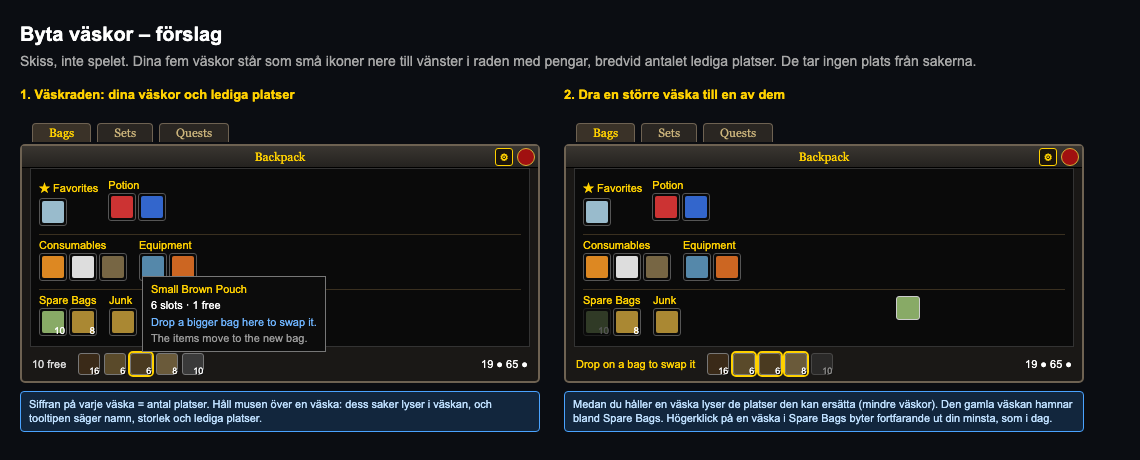
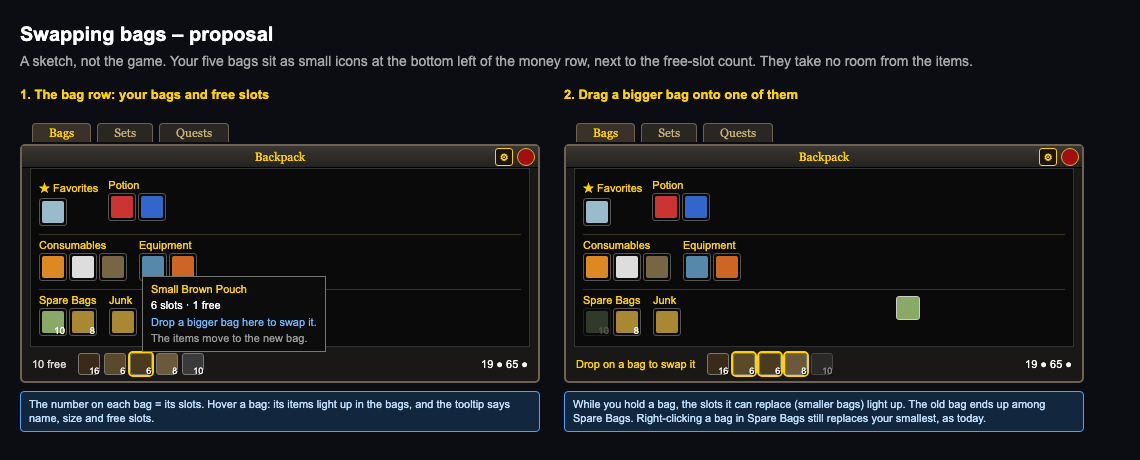
Translate .design/sketch-bag-bar to English (#7)

diff --git a/.design/sketch-bag-bar.html b/.design/sketch-bag-bar.html
@@ -1,4 +1,4 @@
-<!DOCTYPE html><html><head><meta charset="utf-8"><title>Tidy Pack – skiss: byta väskor</title>
+<!DOCTYPE html><html><head><meta charset="utf-8"><title>Tidy Pack – sketch: swapping bags</title>
 <style>
 *{box-sizing:border-box}body{margin:0;padding:20px;background:#0b0d12;color:#d8d8d8;font:14px/1.4 Arial,sans-serif;width:1100px}
 h1{font-size:20px;margin:0 0 4px;color:#fff}.n{color:#a8a8a8;margin:0 0 14px;max-width:1050px}
@@ -19,11 +19,11 @@ h1{font-size:20px;margin:0 0 4px;color:#fff}.n{color:#a8a8a8;margin:0 0 14px;max
 .cur{position:absolute;width:24px;height:24px;border:1px solid #ccc;border-radius:3px;background:#8a6;z-index:7}
 .call{background:#12263d;border:1px solid #4aa3ff;color:#bfe0ff;font:11px/1.35 Arial;padding:5px 8px;border-radius:4px;margin-top:8px}
 </style></head><body>
-<h1>Byta väskor – förslag</h1>
-<p class="n">Skiss, inte spelet. Dina fem väskor står som små ikoner nere till vänster i raden med pengar, bredvid antalet lediga platser. De tar ingen plats från sakerna.</p>
+<h1>Swapping bags – proposal</h1>
+<p class="n">A sketch, not the game. Your five bags sit as small icons at the bottom left of the money row, next to the free-slot count. They take no room from the items.</p>
 <div class="row">
 
-<div class="col"><h2>1. Väskraden: dina väskor och lediga platser</h2><div class="bag">
+<div class="col"><h2>1. The bag row: your bags and free slots</h2><div class="bag">
 <div class="tabs"><div class="tab on">Bags</div><div class="tab">Sets</div><div class="tab">Quests</div></div><div class="t">Backpack<div class="g">⚙</div><div class="x"></div></div>
 <div class="in">
 <div class="sec"><div class="gr"><b>★ Favorites</b><span class="sl"><i style="background:#9bc"></i></span></div><div class="gr"><b>Potion</b><span class="sl"><i style="background:#c33"></i></span><span class="sl"><i style="background:#36c"></i></span></div></div>
@@ -33,9 +33,9 @@ h1{font-size:20px;margin:0 0 4px;color:#fff}.n{color:#a8a8a8;margin:0 0 14px;max
 <div class="foot"><span class="free">10 free</span><span class="bb"><s>16</s></span><span class="bb" style="background:#5a4a2a"><s>6</s></span><span class="bb hl" style="background:#4a3a20"><s>6</s></span><span class="bb" style="background:#6a5a3a"><s>8</s></span><span class="bb" style="background:#3a3a3a"><s>10</s></span><span class="money">19 ● 65 ●</span></div>
 <div class="tip" style="left:120px;top:130px"><span class="y">Small Brown Pouch</span><br>6 slots · 1 free<br><span class="bl">Drop a bigger bag here to swap it.</span><br><span class="gy">The items move to the new bag.</span></div>
 </div>
-<div class="call">Siffran på varje väska = antal platser. Håll musen över en väska: dess saker lyser i väskan, och tooltipen säger namn, storlek och lediga platser.</div></div>
+<div class="call">The number on each bag = its slots. Hover a bag: its items light up in the bags, and the tooltip says name, size and free slots.</div></div>
 
-<div class="col"><h2>2. Dra en större väska till en av dem</h2><div class="bag">
+<div class="col"><h2>2. Drag a bigger bag onto one of them</h2><div class="bag">
 <div class="tabs"><div class="tab on">Bags</div><div class="tab">Sets</div><div class="tab">Quests</div></div><div class="t">Backpack<div class="g">⚙</div><div class="x"></div></div>
 <div class="in">
 <div class="sec"><div class="gr"><b>★ Favorites</b><span class="sl"><i style="background:#9bc"></i></span></div><div class="gr"><b>Potion</b><span class="sl"><i style="background:#c33"></i></span><span class="sl"><i style="background:#36c"></i></span></div></div>
@@ -45,6 +45,6 @@ h1{font-size:20px;margin:0 0 4px;color:#fff}.n{color:#a8a8a8;margin:0 0 14px;max
 <div class="foot"><span class="free" style="color:#ffd100">Drop on a bag to swap it</span><span class="bb"><s>16</s></span><span class="bb hl" style="background:#5a4a2a"><s>6</s></span><span class="bb hl" style="background:#4a3a20"><s>6</s></span><span class="bb hl" style="background:#6a5a3a"><s>8</s></span><span class="bb" style="background:#3a3a3a;opacity:.5"><s>10</s></span><span class="money">19 ● 65 ●</span></div>
 <div class="cur" style="left:330px;top:150px"></div>
 </div>
-<div class="call">Medan du håller en väska lyser de platser den kan ersätta (mindre väskor). Den gamla väskan hamnar bland Spare Bags. Högerklick på en väska i Spare Bags byter fortfarande ut din minsta, som i dag.</div></div>
+<div class="call">While you hold a bag, the slots it can replace (smaller bags) light up. The old bag ends up among Spare Bags. Right-clicking a bag in Spare Bags still replaces your smallest, as today.</div></div>
 
 </div></body></html>
